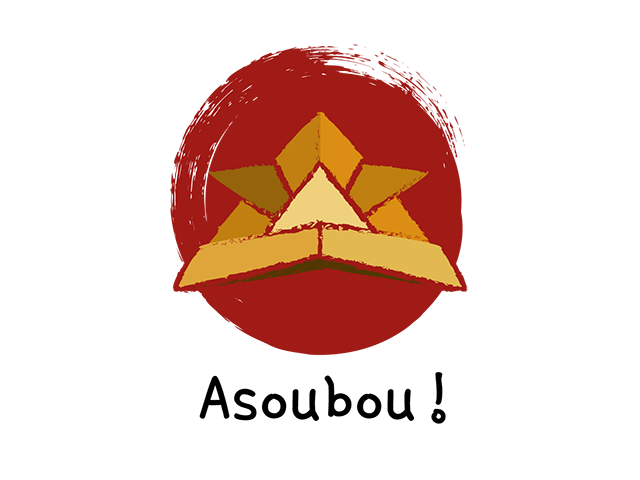
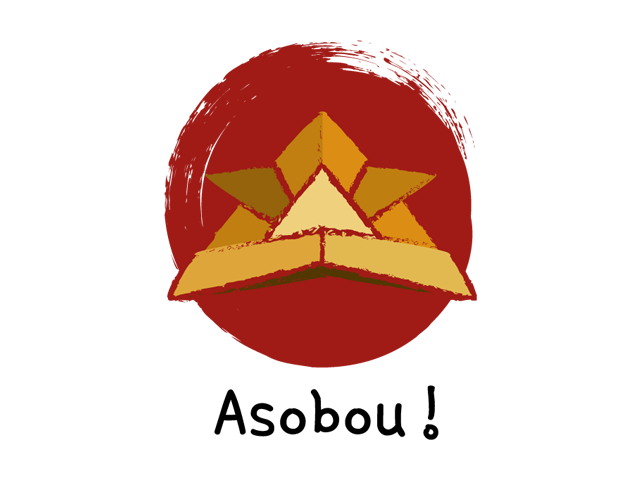
fix asoubou to asobou

diff --git a/_portfolio/001-asobou.md b/_portfolio/001-asobou.md
@@ -14,7 +14,7 @@ technologies:
 
 Asobou est un projet très personnel.
 
-"Asoubou" signifie "Jouons" en japonais. Il s'agit d'une chaîne Youtube sur laquelle nous diffusons des vidéos concernant la culture japonaise au travers du jeu de société.
+"Asobou" signifie "Jouons" en japonais. Il s'agit d'une chaîne Youtube sur laquelle nous diffusons des vidéos concernant la culture japonaise au travers du jeu de société.
 
 Pour cette chaîne, j'ai créé ou participé à la création de plusieurs éléments tels que :
 - le logo (participation)
